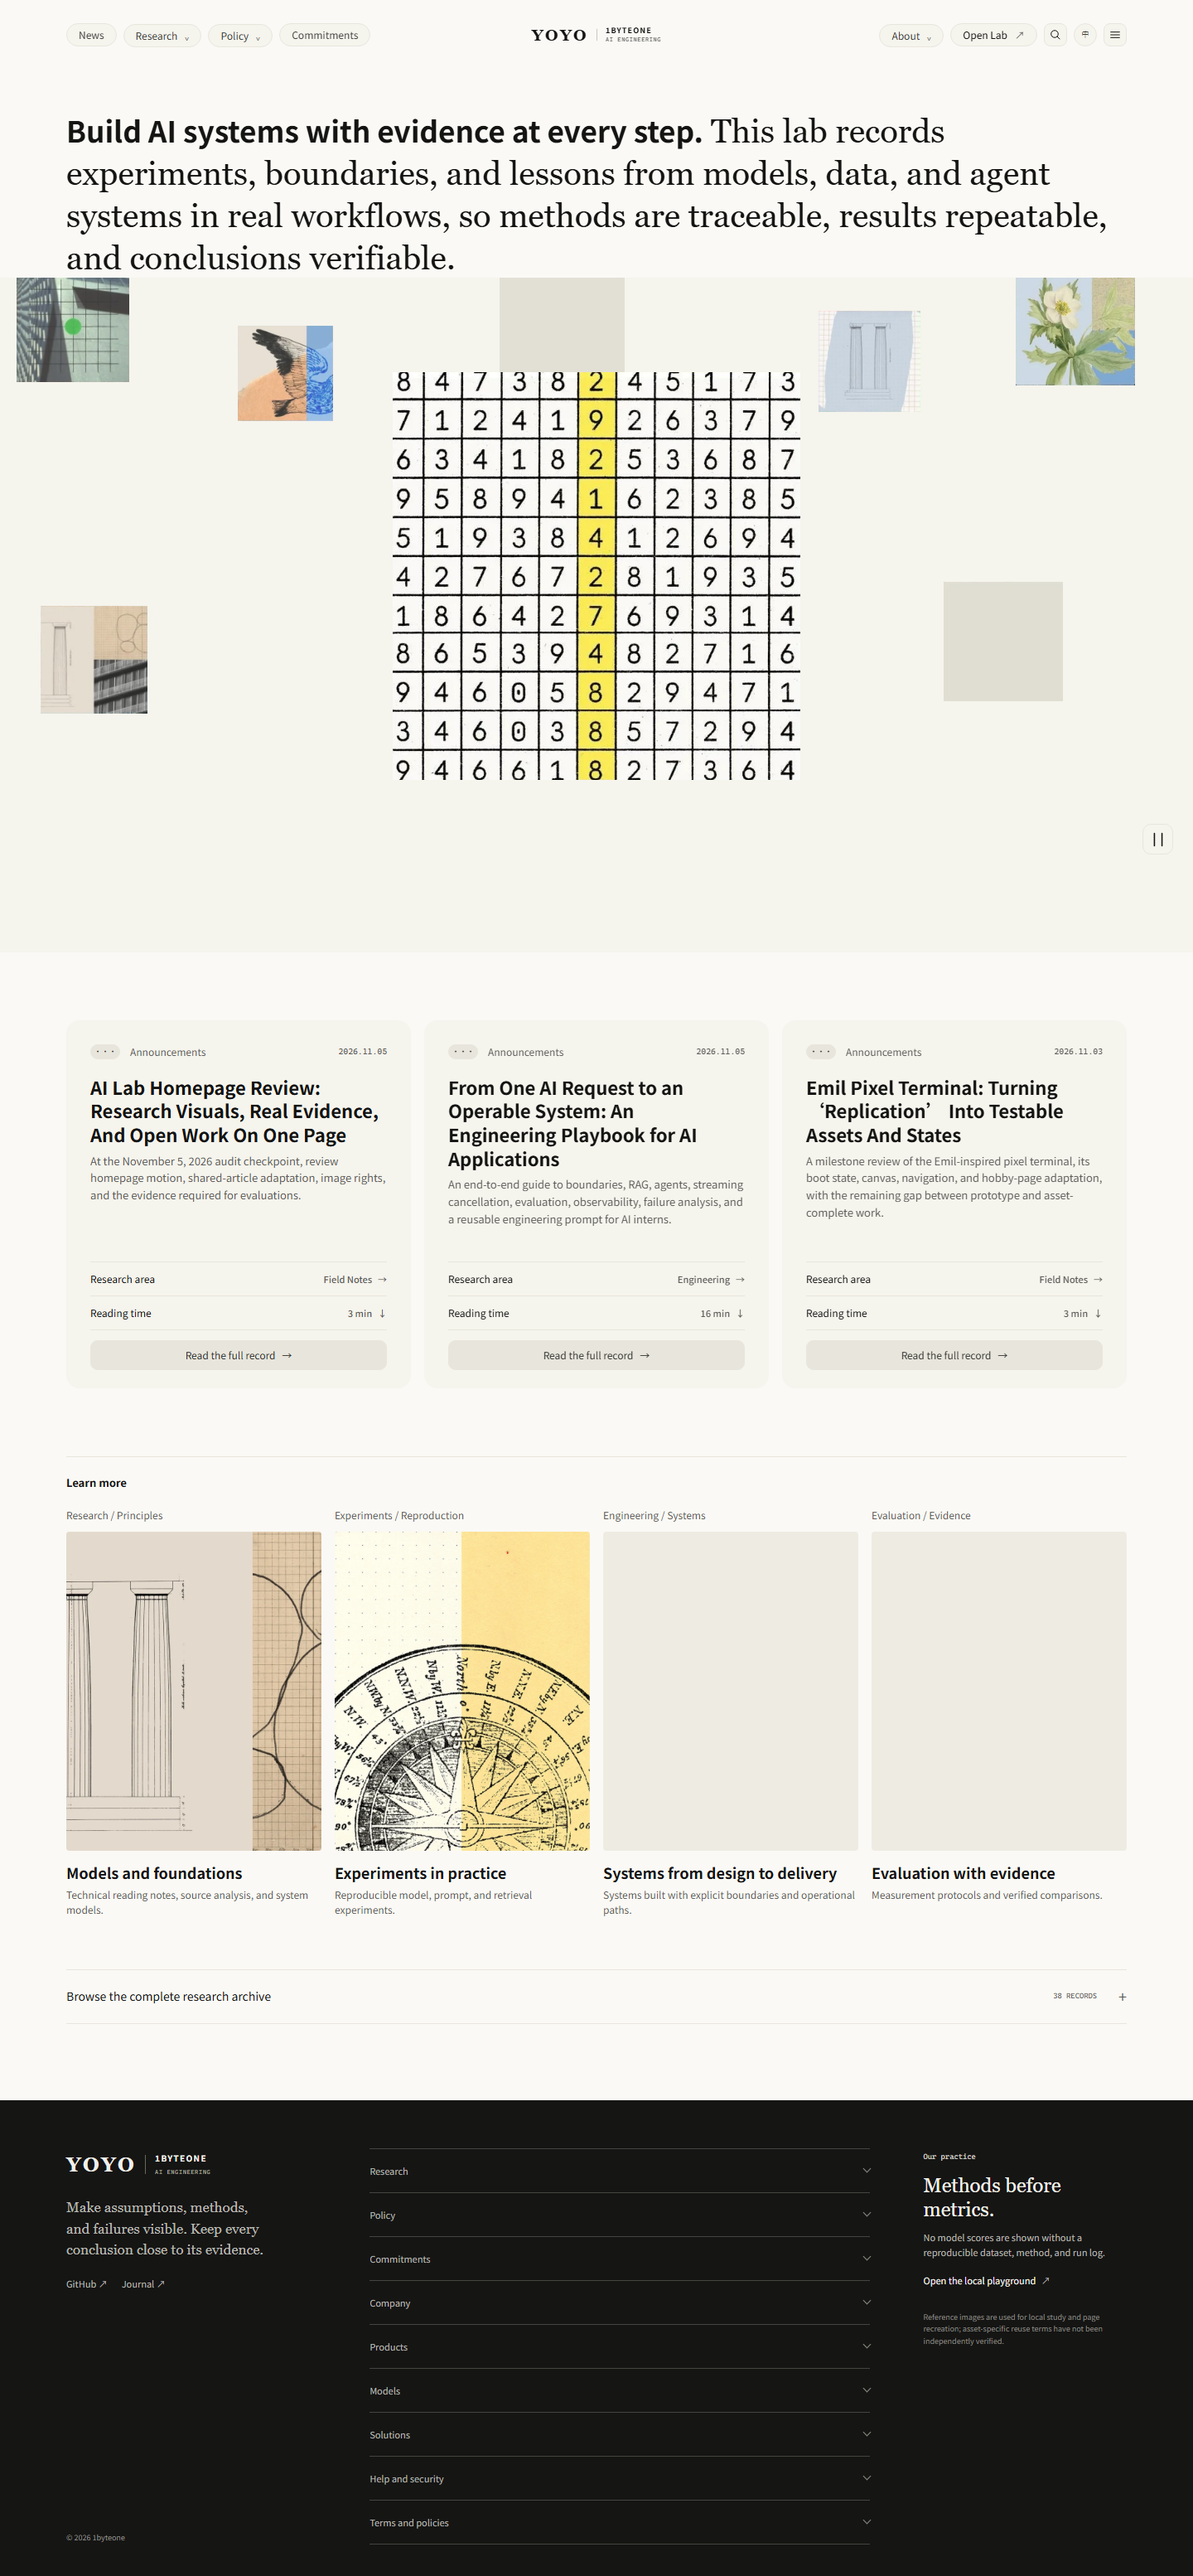
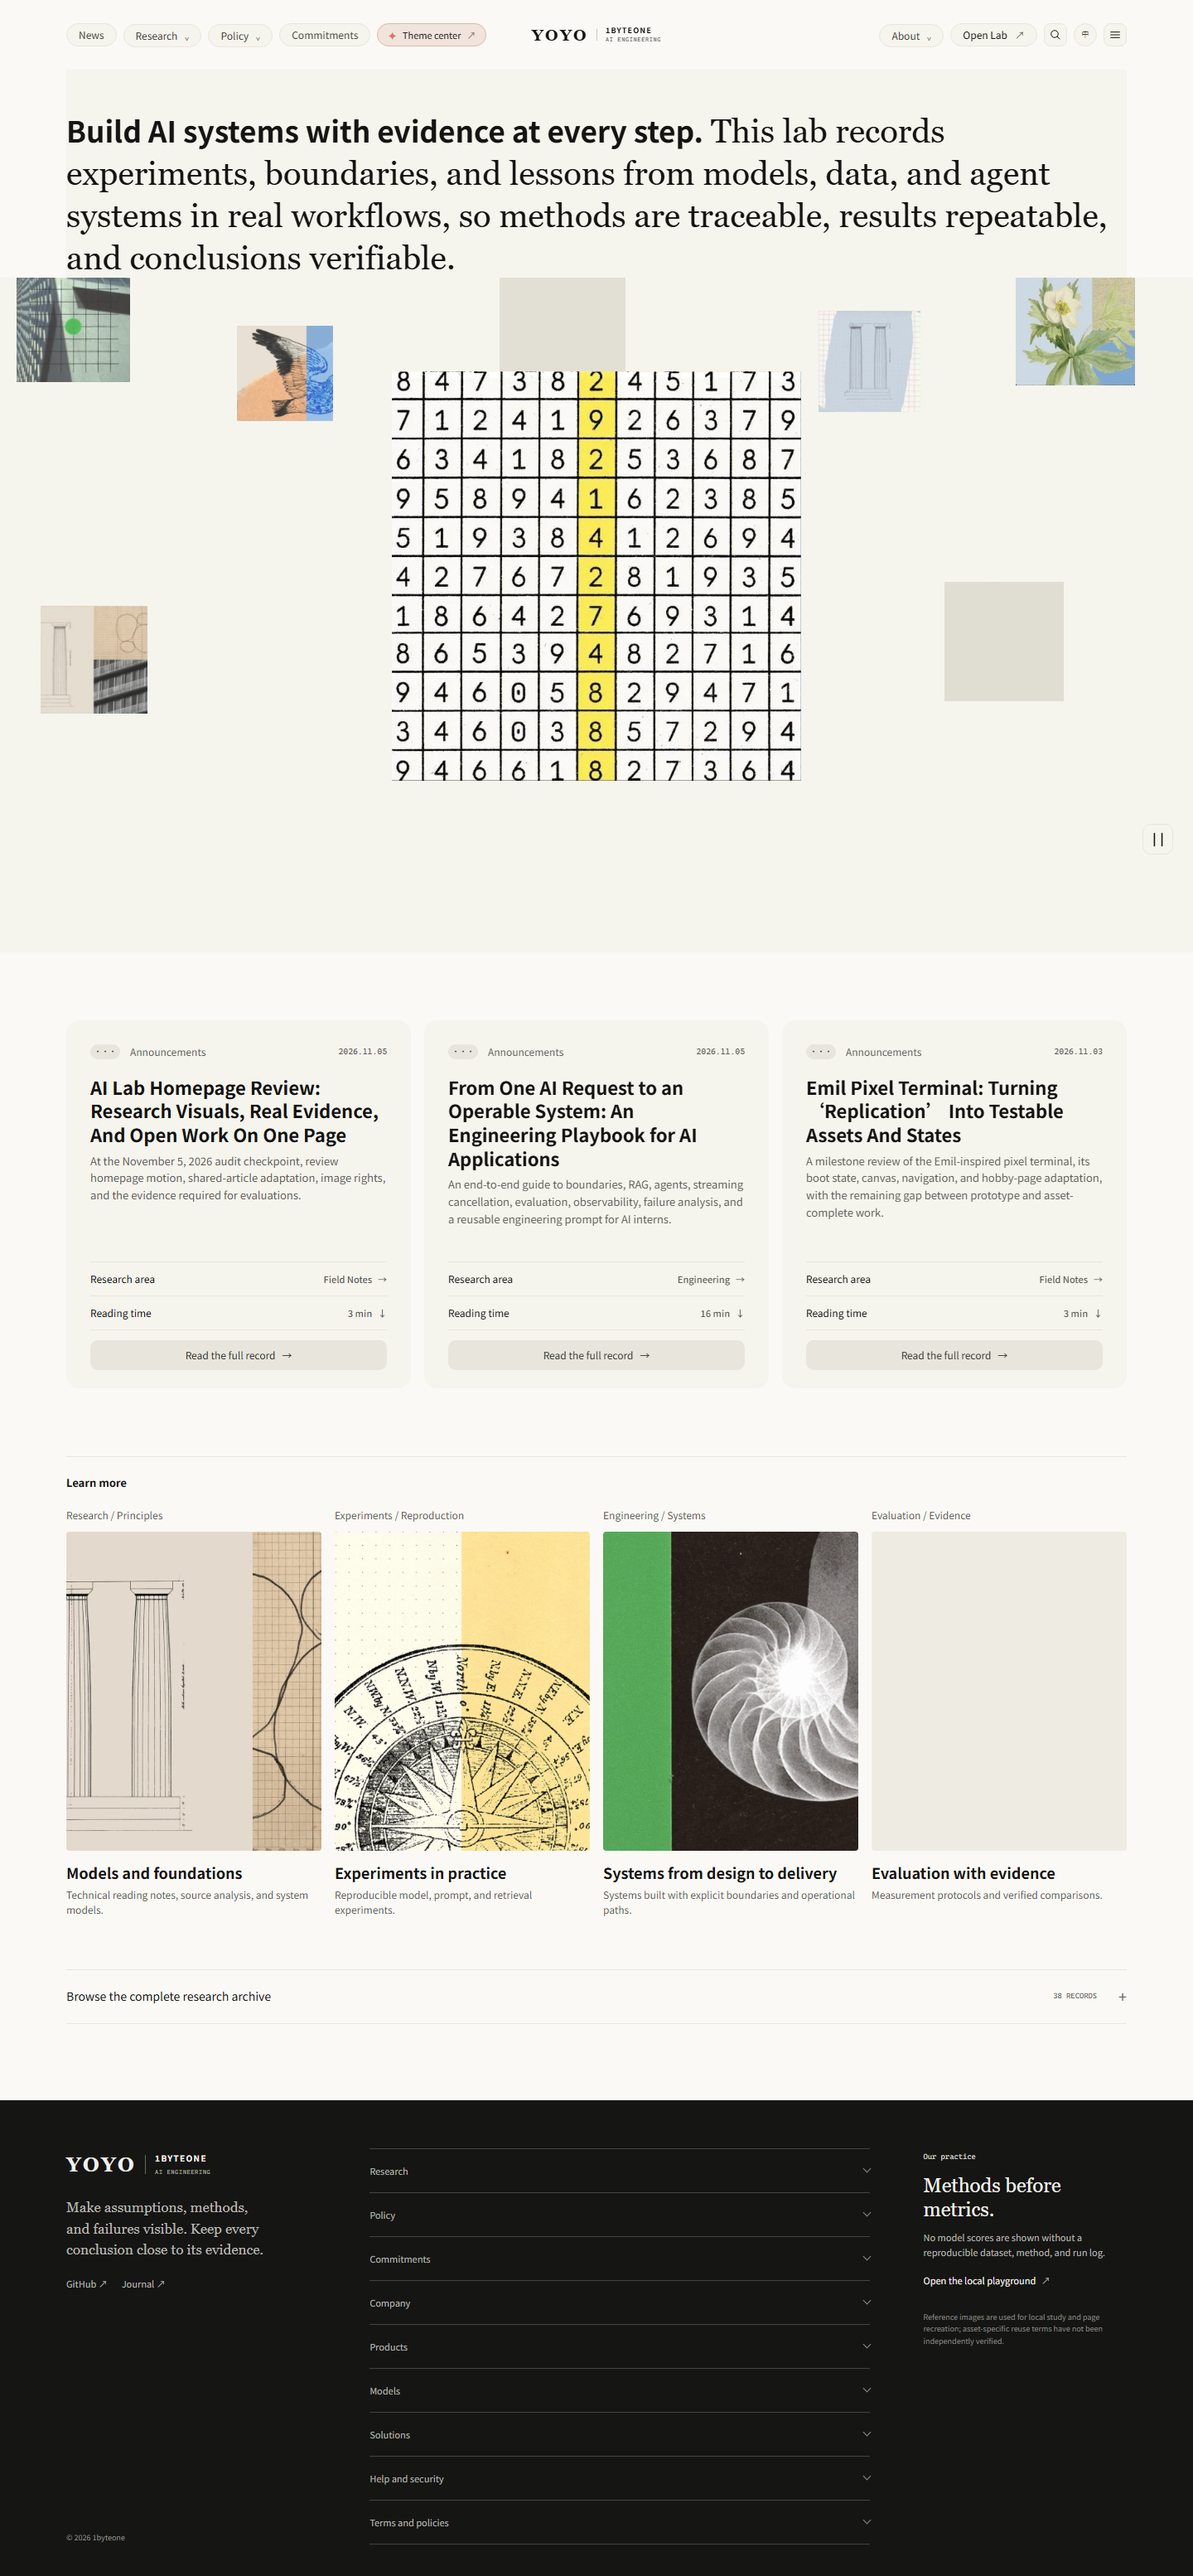
fix: separate ai lab text layers and add theme center link

Changed region(s): [[0.5, 0.593, 0.7188, 0.7178], [0.3125, 0.0, 0.4062, 0.0312]]

diff --git a/static/css/ai-lab.css b/static/css/ai-lab.css
@@ -577,6 +577,32 @@ body.ai-lab-home-page .al-ref-header {
   box-shadow: 0 0 0 1px var(--al-home-control-hover-border);
   color: var(--al-ink) !important;
 }
+.al-ref-theme-center {
+  min-height: 28px;
+  display: inline-flex;
+  align-items: center;
+  gap: 7px;
+  padding: 0 12px;
+  border: 1px solid color-mix(in srgb, var(--al-accent) 42%, var(--al-line));
+  border-radius: 999px;
+  background: color-mix(in srgb, var(--al-accent-soft) 72%, var(--al-home-pill));
+  color: var(--al-ink) !important;
+  font-size: 11px;
+  line-height: 1;
+  white-space: nowrap;
+  transition: background 170ms ease, border-color 170ms ease, color 170ms ease, transform 170ms ease;
+}
+.al-ref-theme-center span:first-child { color: var(--al-accent); font-size: 13px; }
+.al-ref-theme-center span:last-child { color: var(--al-muted); transition: transform 170ms ease; }
+.al-ref-theme-center:hover, .al-ref-theme-center:focus-visible, .al-ref-theme-center[aria-current="page"] {
+  border-color: var(--al-accent);
+  background: var(--al-accent);
+  color: #fff !important;
+  box-shadow: 0 0 0 1px var(--al-accent);
+}
+.al-ref-theme-center:hover span, .al-ref-theme-center:focus-visible span, .al-ref-theme-center[aria-current="page"] span { color: inherit; }
+.al-ref-theme-center:hover span:last-child { transform: translate(2px, -2px); }
+.al-ref-theme-center:active { transform: scale(.96); }
 .al-ref-pill:active, .al-ref-about:active, .al-ref-language:active, .al-ref-try:active, .al-ref-icon:active, .al-ref-menu-toggle:active { transform: scale(.96); }
 .al-ref-dropdown[open] > .al-ref-pill,
 .al-ref-dropdown > .al-ref-pill[aria-expanded="true"] {
@@ -693,7 +719,7 @@ body.ai-lab-home-page .al-ref-header[data-scrolled="true"] .al-ref-brand-compact
 
 .al-home-shell { width: min(1760px, calc(100% - 160px)); margin-inline: auto; }
 .al-home-main { color: var(--al-ink); }
-.al-home-intro { padding-top: 47px; padding-bottom: 49px; }
+.al-home-intro { position: relative; z-index: 5; padding-top: 47px; padding-bottom: 49px; background: var(--al-home-panel); isolation: isolate; }
 .al-home-intro h1 { max-width: 1660px; margin: 0; font-size: 40px; font-weight: 400; line-height: 1.2; animation: al-home-heading-in 720ms cubic-bezier(.2,.7,.2,1) both; }
 @keyframes al-home-heading-in { from { opacity: 0; transform: translateY(17px); } to { opacity: 1; transform: translateY(0); } }
 .al-home-intro h1 strong { font-family: var(--al-sans); font-size: .88em; font-weight: 630; }
@@ -717,7 +743,7 @@ body.ai-lab-home-page .al-ref-header[data-scrolled="true"] .al-ref-brand-compact
 .al-home-stage[data-art-error="true"] .al-home-art-canvas { opacity: 0; }
 .al-home-stage-stories { position: absolute; z-index: 2; inset: 0; display: grid; align-items: center; justify-items: center; padding: 24px 28px 66px; pointer-events: none; }
 .al-home-stage-stories[inert] { user-select: none; }
-.al-home-story { grid-area: 1 / 1; width: min(1040px, 100%); min-height: 0; padding: 34px clamp(20px, 5vw, 56px); border-radius: 2px; background: var(--al-home-panel); text-align: center; pointer-events: none; opacity: 0; visibility: hidden; transform: translateY(12px); transition: opacity 300ms cubic-bezier(.16,1,.3,1), transform 360ms cubic-bezier(.16,1,.3,1), visibility 300ms; }
+.al-home-story { grid-area: 1 / 1; width: min(760px, calc(100% - 48px)); min-height: 0; padding: 34px clamp(20px, 5vw, 56px); border: 1px solid color-mix(in srgb, var(--al-line) 78%, transparent); border-radius: 10px; background: color-mix(in srgb, var(--al-home-panel) 92%, transparent); box-shadow: 0 18px 55px rgb(20 20 18 / 10%); backdrop-filter: blur(12px); text-align: center; pointer-events: none; opacity: 0; visibility: hidden; transform: translateY(12px); transition: opacity 300ms cubic-bezier(.16,1,.3,1), transform 360ms cubic-bezier(.16,1,.3,1), visibility 300ms; }
 .al-home-stage-stories[data-visible="true"] .al-home-story.is-active { opacity: 1; visibility: visible; transform: translateY(0) scale(1); pointer-events: auto; }
 
 .al-home-story-copy { max-width: 560px; }
@@ -866,7 +892,7 @@ body.ai-lab-home-page .al-ref-header[data-scrolled="true"] .al-ref-brand-compact
   .al-ref-header-inner, .al-home-shell, .al-ref-footer-inner { width: min(100% - 96px, 1760px); }
   .al-ref-header-inner { gap: 12px; }
   .al-ref-nav, .al-ref-tools { gap: 5px; }
-  .al-ref-pill, .al-ref-about, .al-ref-try { padding-inline: 10px; font-size: 10px; }
+  .al-ref-pill, .al-ref-about, .al-ref-try, .al-ref-theme-center { padding-inline: 10px; font-size: 10px; }
   .al-ref-brand-yoyo { font-size: 18px; }
   .al-home-intro h1 { font-size: 40px; }
   .al-home-announcement { padding-inline: 21px; }
@@ -893,7 +919,7 @@ body.ai-lab-home-page .al-ref-header[data-scrolled="true"] .al-ref-brand-compact
   .al-home-stage { top: 84px; height: min(569px, calc(100svh - 84px)); min-height: 0; }
   .al-home-featured-card { --al-hero-art-size: min(610px, 50svh, 86vw); }
   .al-home-stage-stories { padding: 18px 18px 34px; }
-  .al-home-story { padding: 28px; }
+  .al-home-story { width: min(720px, calc(100% - 40px)); padding: 28px; }
   .al-home-sizzle-track { height: 569px; min-height: 0; }
   .al-home-shell, .al-ref-footer-inner { width: calc(100% - 96px); }
   .al-home-intro { padding-top: 34px; padding-bottom: 30px; }
@@ -936,12 +962,12 @@ body.ai-lab-home-page .al-ref-header[data-scrolled="true"] .al-ref-brand-compact
   .al-home-stage { top: 76px; height: clamp(430px, calc(100svh - 264px), 560px); min-height: 430px; max-height: none; }
   .al-home-featured-card { --al-hero-art-size: min(86vw, 50svh); }
   .al-home-stage-stories { padding: 18px 14px 54px; }
-  .al-home-story { padding: 20px 14px; }
+  .al-home-story { width: calc(100% - 28px); padding: 20px 14px; }
   .al-home-story h2 { font-size: clamp(27px, 7vw, 34px); }
   .al-home-story-summary { margin-block: 12px 18px; font-size: 13px; }
   .al-home-sizzle-track { height: clamp(430px, calc(100svh - 264px), 560px); min-height: 430px; }
   
-  .al-home-story { padding: 0 4px; border-radius: 5px; }
+  .al-home-story { width: calc(100% - 28px); padding: 14px 12px; border-radius: 8px; }
   .al-home-kicker { margin-bottom: 6px; font-size: 13px; }
   .al-home-story h2 { font-size: 27px; }
   .al-home-story-summary { margin: 7px 0 10px; font-size: 11px; }

diff --git a/layouts/partials/ai-lab/header.html b/layouts/partials/ai-lab/header.html
@@ -16,6 +16,7 @@
         <div class="al-ref-dropdown-panel"><a href="{{ "ai-lab/benchmarks/" | relLangURL }}"><span>{{ if $zh }}评测方法{{ else }}Methods{{ end }}</span><small>04</small></a><a href="{{ "ai-lab/research/" | relLangURL }}"><span>{{ if $zh }}安全与治理{{ else }}Safety &amp; governance{{ end }}</span><small>02</small></a></div>
       </details>
       <a class="al-ref-pill" href="{{ "ai-lab/engineering/" | relLangURL }}">{{ if $zh }}承诺{{ else }}Commitments{{ end }}</a>
+      <a class="al-ref-theme-center" href="{{ "theme-center/" | relLangURL }}"{{ if eq .Section "theme-center" }} aria-current="page"{{ end }}><span aria-hidden="true">✦</span>{{ if $zh }}主题中心{{ else }}Theme center{{ end }}<span aria-hidden="true">↗</span></a>
       <button class="al-ref-nav-theme" type="button" data-lab-theme-toggle aria-label="{{ if $zh }}切换明暗主题{{ else }}Toggle color theme{{ end }}">
         <span aria-hidden="true">◐</span><span>{{ if $zh }}切换明暗主题{{ else }}Color mode{{ end }}</span>
       </button>
